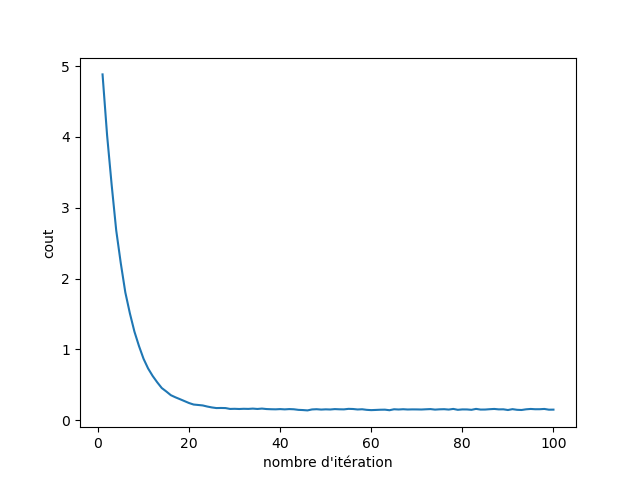
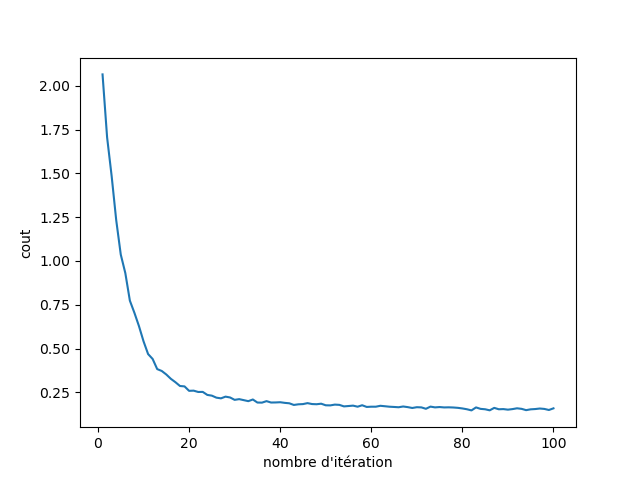
tests rapport 1

diff --git a/main/main_multiclass.py b/main/main_multiclass.py
@@ -12,7 +12,7 @@ uspsdatatrain = "../data/USPS_train.txt"
 uspsdatatest = "../data/USPS_test.txt"
 alltrainx,alltrainy = load_usps(uspsdatatrain)
 alltestx,alltesty = load_usps(uspsdatatest)
-alltrainy = OneHotEncoder(sparse = False).fit_transform(alltrainy.reshape(-1,1))
+alltrainy_oh = OneHotEncoder(sparse = False).fit_transform(alltrainy.reshape(-1,1))
 
 alltrainx = MinMaxScaler().fit_transform(alltrainx)
 alltestx = MinMaxScaler().fit_transform(alltestx)
@@ -24,13 +24,17 @@ seq = Sequentiel([lin1,TanH(),lin2,TanH()])
 n_iter = 1000
 eps = 1e-4
 
-seq, loss = mini_SGD(seq,alltrainx, alltrainy, batch_size=100, eps=eps, loss_fonction = SoftMax_CELoss(), nb_iteration=n_iter)
+seq, loss = mini_SGD(seq,alltrainx, alltrainy_oh, batch_size=100, eps=eps, loss_fonction = SoftMax_CELoss(), nb_iteration=n_iter)
+
+
+outputs = seq.forward(alltrainx)
+yhat_train = np.argmax(outputs[-1], axis=1)
+print('accuracy classif train : ',np.mean(yhat_train == alltrainy))
 
 outputs = seq.forward(alltestx)
+yhat_test = np.argmax(outputs[-1], axis=1)
+print('accuracy classif test : ',np.mean(yhat_test == alltesty))
 
-yhat = np.argmax(outputs[-1], axis=1)
-
-print('taux de bonne classif : ',np.mean(yhat == alltesty))
 
 plt.figure()
 plt.xlabel("nombre d'itération")
@@ -40,7 +44,7 @@ plt.savefig('../out/loss_multiclass.png')
 plt.show()
 
 ## Visualisation de la matrice de confusion
-mat=confusion_matrix(alltesty, yhat)
+mat=confusion_matrix(alltesty, yhat_test)
 print('matrice de confusion : ',mat)
 plt.figure()
 plt.title("matrice de confusion")
@@ -52,7 +56,8 @@ idx = np.random.choice(len(alltestx), 4)
 k=1
 for i in idx:
     plt.figure()
-    plt.title('y: '+str(alltesty[i])+' yhat :'+str(yhat[i]))
+    plt.title('y: '+str(alltesty[i])+' yhat :'+str(yhat_test[i]))
     plt.imshow(alltestx[i].reshape(16,16))
+    plt.savefig(f'../out/predvstrue{i}_multiclass.png')
     plt.show()
     k += 1

diff --git a/main/main_nolinear.py b/main/main_nolinear.py
@@ -13,20 +13,23 @@ from modules.tanH import TanH
 def proj_biais(datax):
     return np.hstack((np.ones(datax.shape[0]).reshape(-1,1),datax))
 
-datax_train, datay_train = gen_arti(epsilon=0.3, data_type=1)
+datax_train, datay_train = gen_arti(epsilon=0.1, data_type=2, nbex=5000)
 datay_train = datay_train.reshape(-1, 1)
 datay_train_01 = np.where(datay_train == -1, 0, 1)
 datax_train_biais = proj_biais(datax_train)
 
-datax_test, datay_test = gen_arti(epsilon=0.5, data_type=1)
+datax_test, datay_test = gen_arti(epsilon=0.1, data_type=2)
 datay_test = datay_test.reshape(-1, 1)
 datay_test_01 = np.where(datay_test == -1, 0, 1)
 datax_test_biais = proj_biais(datax_test)
 
 
-lin1 = Linear(3, 10)
-lin2 = Linear(10, 1)
-ae = Sequentiel([lin1,TanH(),lin2,Sigmoide()])
+lin1 = Linear(3, 128)
+lin2 = Linear(128,128)
+lin3 = Linear(128,1)
+
+
+ae = Sequentiel([lin1,TanH(),lin2,Sigmoide(),lin3,Sigmoide()])
 n_iter = 1000
 ep = 1e-4
 seq, loss = mini_SGD(ae, datax_train_biais, datay_train_01, batch_size=1000, eps=ep, loss_fonction=MSELoss(), nb_iteration=n_iter)
@@ -47,12 +50,14 @@ plt.figure()
 plt.plot(range(1,n_iter+1),loss)
 plt.xlabel("nombre d'itération")
 plt.ylabel('cout')
+plt.savefig("../out/loss_nonlinear.png")
 plt.show()
 
 plt.figure()
 plt.title('No linear')
 plot_frontiere(datax_test, lambda x : predict(x), step=100)
 plot_data(datax_test, datay_test.reshape(-1))
+plt.savefig("../out/dataviz_nonlinear.png")
 plt.show()
 
 ## Visualisation de la matrice de confusion
@@ -61,4 +66,5 @@ print('matrice de confusion : ',mat)
 plt.figure()
 plt.title("matrice de confusion")
 plt.imshow(mat)
+plt.savefig('../out/mat_conf_nonlinear.png')
 plt.show()

diff --git a/main/main_compression_image/main_espace_latent_dim2.py b/main/main_compression_image/main_espace_latent_dim2.py
@@ -10,18 +10,18 @@ from modules.linear import Linear
 from modules.sigmoide import Sigmoide
 from modules.tanH import TanH
 
-uspsdatatrain = "../../../data/USPS_train.txt"
-uspsdatatest = "../../../data/USPS_test.txt"
+uspsdatatrain = "./../../data/USPS_train.txt"
+uspsdatatest = "./../../data/USPS_test.txt"
 alltrainx,alltrainy = load_usps(uspsdatatrain)
 alltestx,alltesty = load_usps(uspsdatatest)
 alltrainy = OneHotEncoder(sparse = False).fit_transform(alltrainy.reshape(-1,1))
 
 alltrainx = MinMaxScaler().fit_transform(alltrainx)
 alltestx = MinMaxScaler().fit_transform(alltestx)
-lin1 = Linear(256, 100)
-lin2 = Linear(100, 10)
-lin3 = Linear(10, 100)
-lin4 = Linear(100, 256)
+lin1 = Linear(256, 50)
+lin2 = Linear(50, 2)
+lin3 = Linear(2, 50)
+lin4 = Linear(50, 256)
 
 seq = Sequentiel([lin1,TanH(),lin2,TanH(),lin3,TanH(),lin4,Sigmoide()])
 
@@ -36,13 +36,13 @@ for i in idx:
     plt.figure()
     plt.title('image originale de '+str(alltesty[i]))
     plt.imshow(alltestx[i].reshape(16,16))
-    plt.savefig(f'../out/compression_dim10_100_originale{i}')
+    plt.savefig(f'./out/compression_dim2_originale{i}')
     plt.show()
     Xhat = seq.forward(alltestx)[-1]
     plt.figure()
     plt.title('image reconstruite de ' + str(alltesty[i]))
     plt.imshow(Xhat[i].reshape(16,16))
-    plt.savefig(f'../out/compression_dim10_100_reconstruite{i}')
+    plt.savefig(f'./out/compression_dim2_reconstruite{i}')
     plt.show()
 
 plt.figure()

diff --git a/main/main_compression_image/main_compression_dim_10/main_espace_latent_50.py b/main/main_compression_image/main_compression_dim_10/main_espace_latent_50.py
@@ -25,7 +25,7 @@ lin4 = Linear(50, 256)
 
 seq = Sequentiel([lin1,TanH(),lin2,TanH(),lin3,TanH(),lin4,Sigmoide()])
 
-n_iter = 100
+n_iter = 1000
 eps = 1e-4
 
 seq, loss = mini_SGD(seq,alltrainx, alltrainx, batch_size=100, eps=eps, loss_fonction = BCELoss(), nb_iteration=n_iter)
@@ -36,11 +36,13 @@ for i in idx:
     plt.figure()
     plt.title('image originale de '+str(alltesty[i]))
     plt.imshow(alltestx[i].reshape(16,16))
+    plt.savefig(f'../out/compression_dim10_50_originale{i}')
     plt.show()
     Xhat = seq.forward(alltestx)[-1]
     plt.figure()
     plt.title('image reconstruite de ' + str(alltesty[i]))
     plt.imshow(Xhat[i].reshape(16,16))
+    plt.savefig(f'../out/compression_dim10_50_reconstruite{i}')
     plt.show()
 
 plt.figure()

diff --git a/main/main_compression_image/main_compression_dim_5/main_espace_latent_50.py b/main/main_compression_image/main_compression_dim_5/main_espace_latent_50.py
@@ -36,10 +36,12 @@ for i in idx:
     plt.figure()
     plt.title('image originale de '+str(alltesty[i]))
     plt.imshow(alltestx[i].reshape(16,16))
+    plt.savefig(f'../out/compression_dim5_50_originale{i}')
     plt.show()
     Xhat = seq.forward(alltestx)[-1]
     plt.figure()
     plt.title('image reconstruite de ' + str(alltesty[i]))
+    plt.savefig(f'../out/compression_dim5_50_reconstruite{i}')
     plt.imshow(Xhat[i].reshape(16,16))
     plt.show()
 
@@ -47,6 +49,7 @@ plt.figure()
 plt.xlabel("nombre d'itération")
 plt.ylabel('cout')
 plt.plot(range(1, n_iter+1),loss)
+plt.savefig(f'../out/compression_dim5_50_loss')
 plt.show()
 
 km = KMeans(n_clusters=10)

diff --git a/main/main_compression_image/main_compression_dim_5/main_espace_latent_100.py b/main/main_compression_image/main_compression_dim_5/main_espace_latent_100.py
@@ -36,17 +36,20 @@ for i in idx:
     plt.figure()
     plt.title('image originale de '+str(alltesty[i]))
     plt.imshow(alltestx[i].reshape(16,16))
+    plt.savefig(f'../out/compression_dim5_100_originale{i}')
     plt.show()
     Xhat = seq.forward(alltestx)[-1]
     plt.figure()
     plt.title('image reconstruite de ' + str(alltesty[i]))
     plt.imshow(Xhat[i].reshape(16,16))
+    plt.savefig(f'../out/compression_dim5_100_reconstruite{i}')
     plt.show()
 
 plt.figure()
 plt.xlabel("nombre d'itération")
 plt.ylabel('cout')
 plt.plot(range(1, n_iter+1),loss)
+plt.savefig(f'../out/compression_dim5_50_loss')
 plt.show()
 
 km = KMeans(n_clusters=10)

diff --git a/encapsulage.py b/encapsulage.py
@@ -46,8 +46,8 @@ def mini_SGD(net, datax, datay ,batch_size, nb_iteration , loss_fonction , eps =
             tmp_loss = opt.step(x,y)
             loss.append(tmp_loss)
         sum_loss.append(np.mean(loss))
-        #if it % 20 == 0:
-            #print("iteration", it, "loss =", np.mean(loss))
+        if it % 20 == 0:
+            print("iteration", it, "loss =", np.mean(loss))
 
          
     return net, sum_loss
